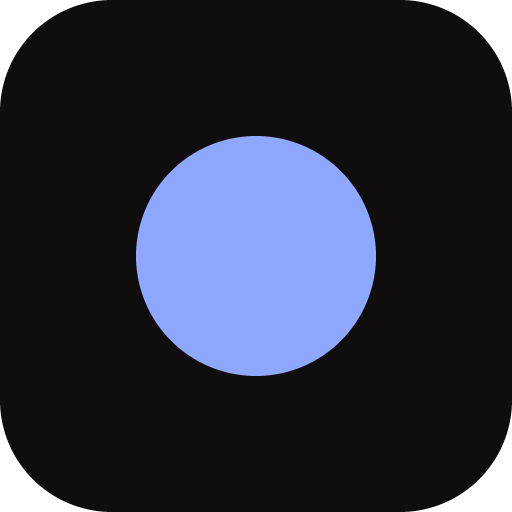
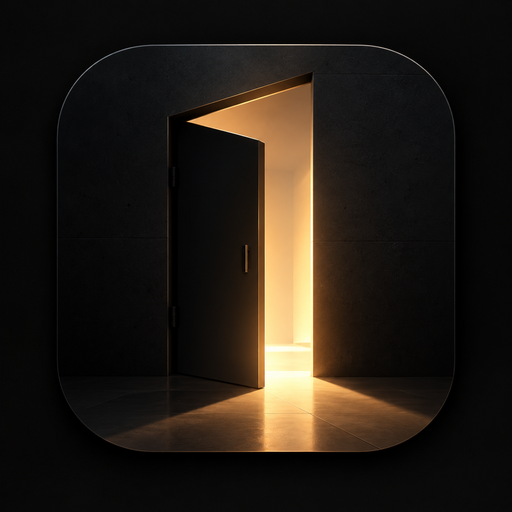
feat(pwa): reemplaza set completo de íconos (nueva identidad "puerta")
Actualiza apple-touch-icon, icon-192/512, maskable-192/512 y agrega
favicon-16/32/ico con sus <link> en index.html. icon-1024 queda
disponible en public/ sin referenciar (ningún ícono actual lo pide).

diff --git a/index.html b/index.html
@@ -3,6 +3,9 @@
   <head>
     <meta charset="UTF-8" />
     <link rel="icon" type="image/svg+xml" href="/icon.svg" />
+    <link rel="icon" type="image/png" sizes="32x32" href="/favicon-32.png" />
+    <link rel="icon" type="image/png" sizes="16x16" href="/favicon-16.png" />
+    <link rel="shortcut icon" href="/favicon.ico" />
     <link rel="apple-touch-icon" href="/apple-touch-icon.png" />
     <meta name="viewport" content="width=device-width, initial-scale=1.0, viewport-fit=cover, interactive-widget=overlays-content" />
     <meta name="theme-color" content="#120F0C" />
